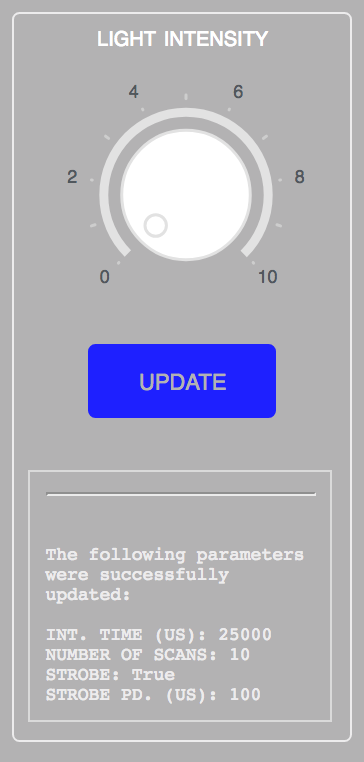
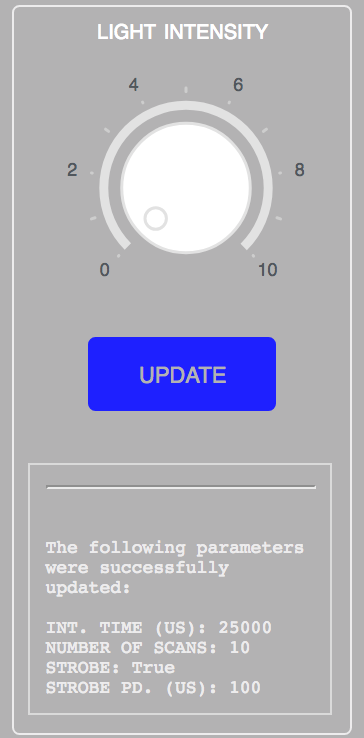
Fix typo in README; change changesuccess screenshot to match height of changefailure.

diff --git a/README.md b/README.md
@@ -72,7 +72,7 @@ Note that the window below the update button is scrollable!
 ## Advanced
 
 ### Configuring the colours
-The colours for all of the components are loaded from `colors.txt`. Note that if you want to change the appearance of other components on the page, you'll have to link a different CSS file in `app.py`.
+The colours for all of the Dash and Dash-DAQ components are loaded from `colors.txt`. Note that if you want to change the appearance of other components on the page, you'll have to link a different CSS file in `app.py`.
 
 ### Adding your own controls
 In order to add a control yourself, you must:
